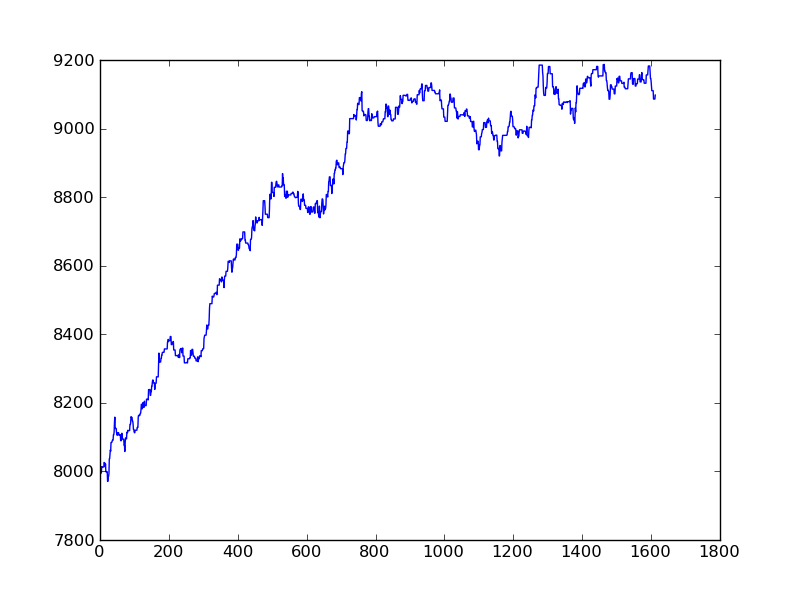
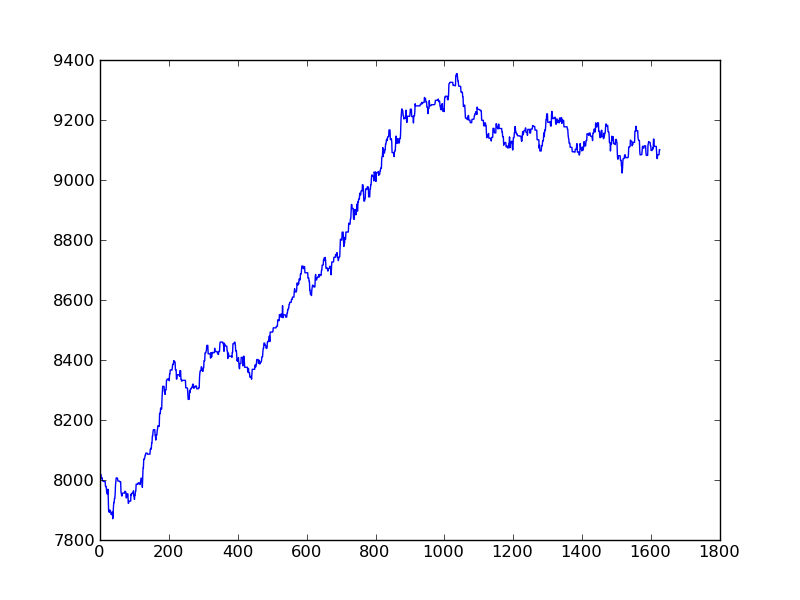
w

diff --git a/galsim_iter.py b/galsim_iter.py
@@ -946,20 +946,20 @@ class GalsimKernel:
         out = os.path.join(self.outdir,'sn_counts_history.png')
         P.savefig(out)
         P.figure(2)
-        n, bins, patches = P.hist(pixel1_vec_np[2000:], 100, histtype='stepfilled',alpha=.3)
-        P.text(150, 800, 'Hist Mean: '+str(np.mean(pixel1_vec_np[2000:])) + '\n' +
+        n, bins, patches = P.hist(pixel1_vec_np[500:], 100, histtype='stepfilled',alpha=.3)
+        P.text(150, 800, 'Hist Mean: '+str(np.mean(pixel1_vec_np[500:])) + '\n' +
                         'Pix Real Value: ' + str(pixel1_val) + '\n' +
-                        'Hist Stdev: '+str(np.std(pixel1_vec_np[2000:])) + '\n' + 
+                        'Hist Stdev: '+str(np.std(pixel1_vec_np[500:])) + '\n' + 
                         'Pixel sigma: '+str((1/pixel1_weight)**.5),
                         style='italic',
                         bbox={'facecolor':'red', 'alpha':0.5, 'pad':10})
         out = os.path.join(self.outdir,'pixel1_histogram.png')
         P.savefig(out)
         P.figure(3)
-        n, bins, patches = P.hist(pixel2_vec_np[2000:], 100, histtype='stepfilled',alpha=.3)
-        P.text(150, 800, 'Hist Mean: '+str(np.mean(pixel2_vec_np[2000:])) + '\n' +
+        n, bins, patches = P.hist(pixel2_vec_np[500:], 100, histtype='stepfilled',alpha=.3)
+        P.text(150, 800, 'Hist Mean: '+str(np.mean(pixel2_vec_np[500:])) + '\n' +
                         'Pix Real Value: ' + str(pixel2_val) + '\n' +
-                        'Hist Stdev: '+str(np.std(pixel2_vec_np[2000:])) + '\n' +
+                        'Hist Stdev: '+str(np.std(pixel2_vec_np[500:])) + '\n' +
                         'Pixel Sigma: '+str((1/pixel2_weight)**.5),
                         style='italic',
                         bbox={'facecolor':'red', 'alpha':0.5, 'pad':10})
@@ -1187,7 +1187,7 @@ if __name__=='__main__':
                         , sn_stdev = 15
                         )
     
-    test.run()
+    #test.run()
     test.plot_pixel_histograms()
     #Check backgrounds by zooming out
 
